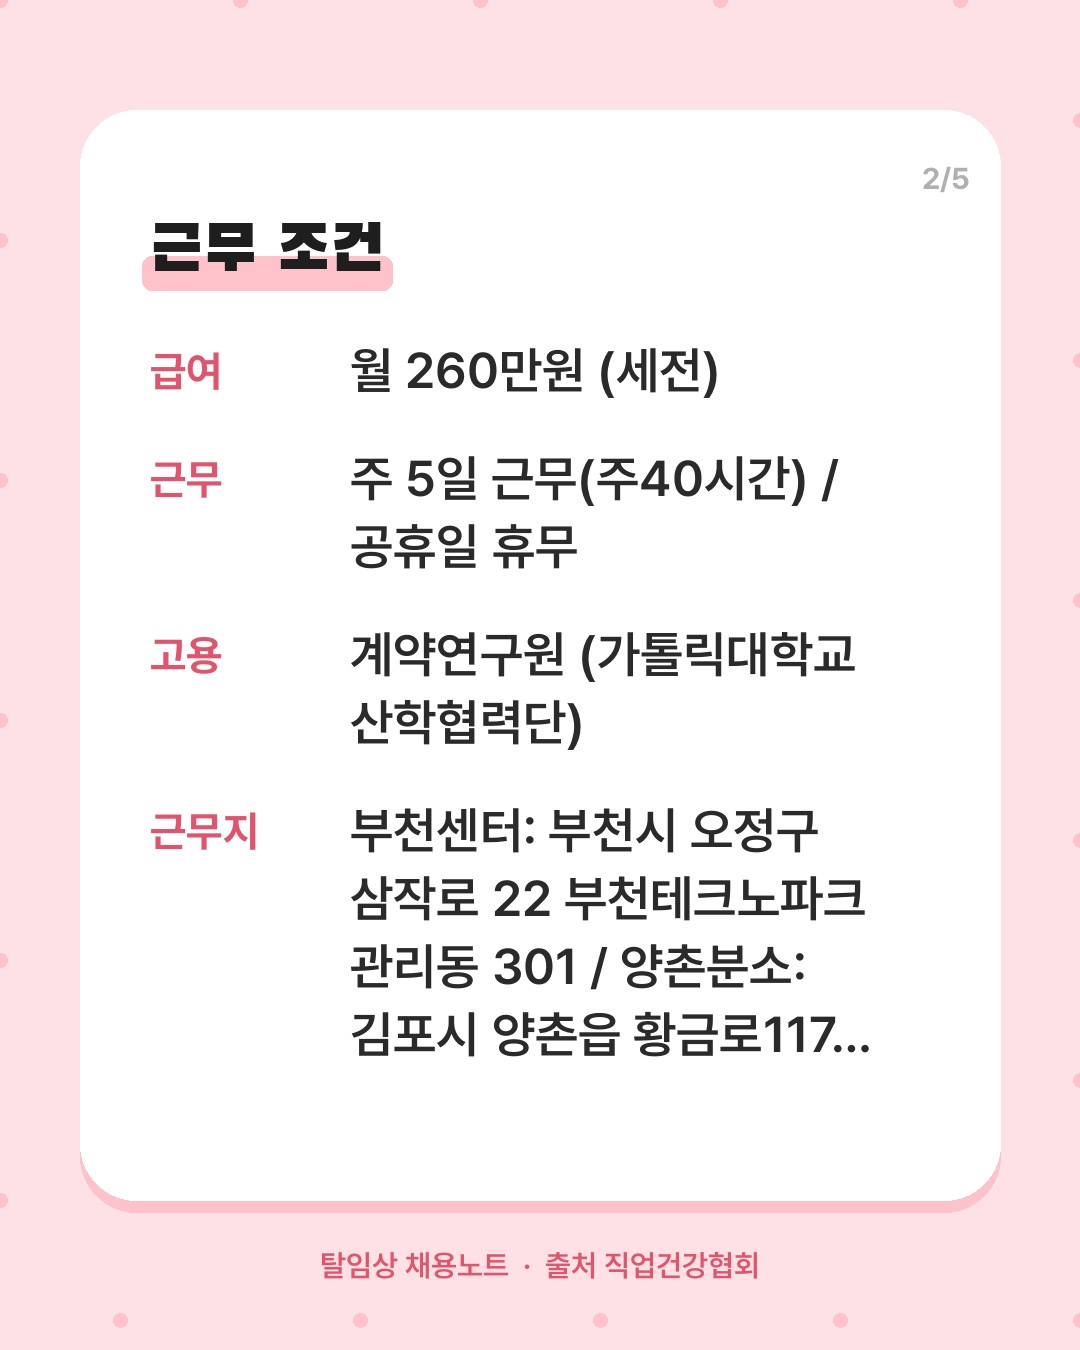
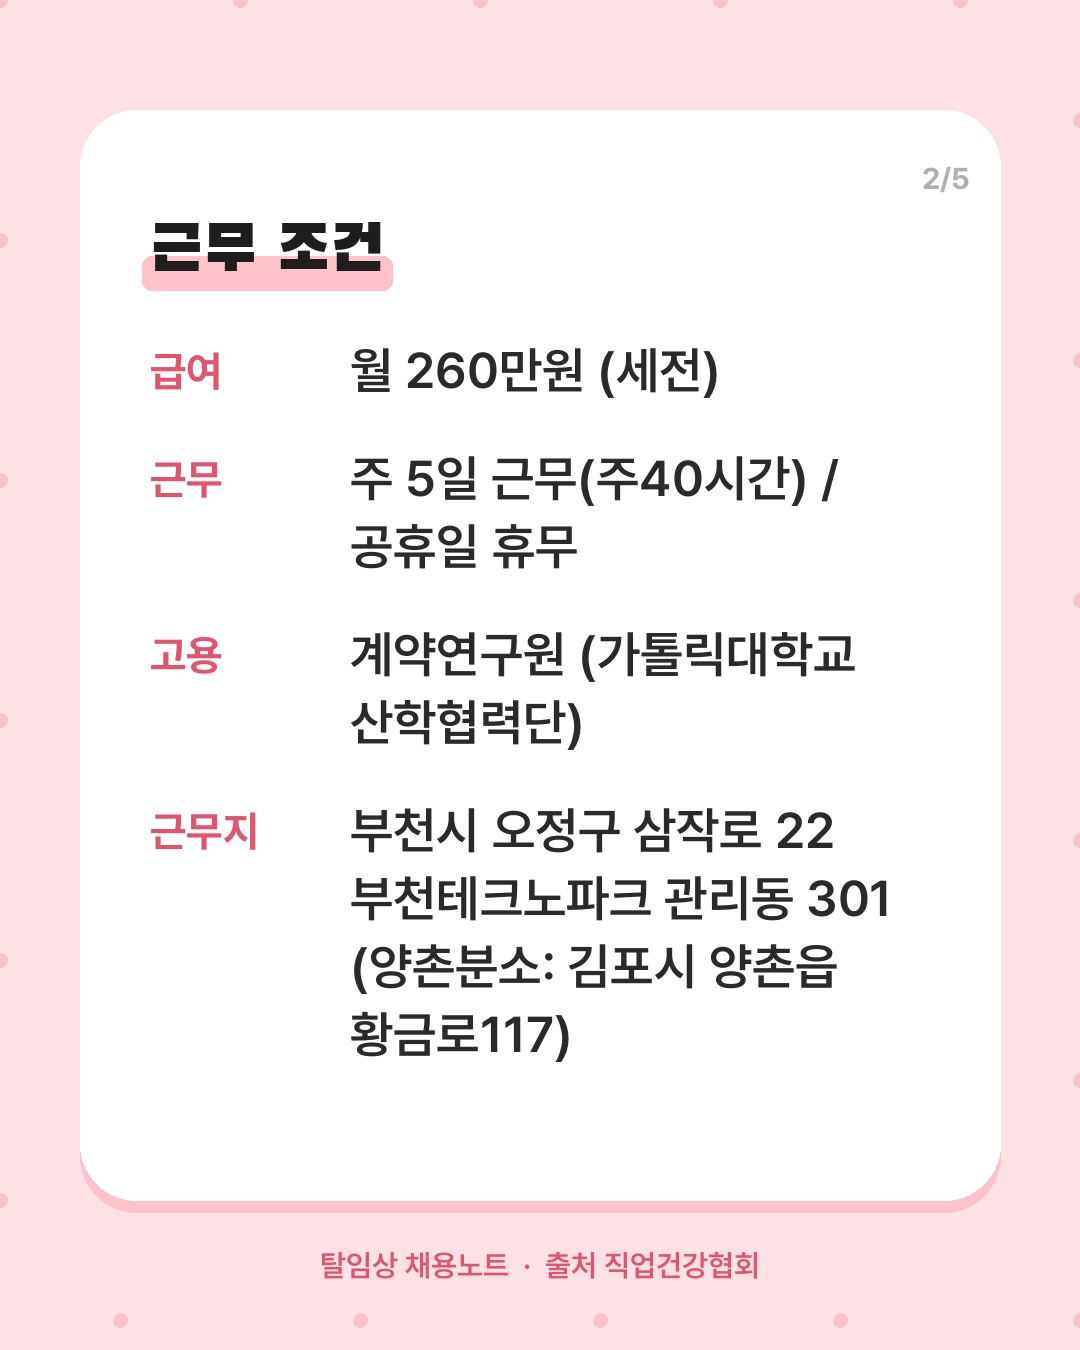
분류·콘텐츠 생성·검토 2026-11-27
Claude-Session: https://claude.ai/code/session_015ozFBvjxcWAyqLYfTbBGCZ

Changed region(s): [[0.3056, 0.5911, 0.825, 0.8089]]

diff --git a/docs/2026-11-27/index.html b/docs/2026-11-27/index.html
@@ -157,7 +157,7 @@ a{color:var(--accent)}ul.days{padding-left:1.2em}
 <div class="row" style="margin-top:10px;align-items:flex-start"><a href="thumb-04.png" download><img src="thumb-04.png" alt="썸네일 4" style="width:160px;border-radius:8px;border:1px solid var(--line)"></a>
 <span class="muted">썸네일: 이미지를 눌러 저장 후 글 맨 위에 넣으세요</span></div></div><div class="box"><div class="row"><b>글 5. 부천근로자건강센터 · 간호사</b>
 <span class="muted">카테고리: 탈임상 채용공고 &gt; 산업간호사·기업</span></div>
-<pre id="pl5" style="display:none">부천근로자건강센터 | 부천센터: 부천시 오정구 삼작로 22 부천테크노파크 관리동 301 / 양촌분소: 김포시 양촌읍 황금로117 이젠지식산업센터 메카존 243호</pre>
+<pre id="pl5" style="display:none">부천근로자건강센터 | 부천시 오정구 삼작로 22 부천테크노파크 관리동 301</pre>
 <div class="row" style="margin-top:8px"><pre id="pt5" style="flex:1;margin:0">[부천] 부천근로자건강센터 간호사 채용 (~12/10)</pre>
 <button onclick="copyText('pt5',this)">제목 복사</button></div>
 <details open><summary class="muted" style="margin:10px 0;cursor:pointer">본문 미리보기 (접기)</summary>
@@ -168,7 +168,7 @@ a{color:var(--accent)}ul.days{padding-left:1.2em}
 <tr><td style="width:30%;background:#f5f5f5"><b>부서 · 직무</b></td><td>간호사</td></tr>
 <tr><td style="width:30%;background:#f5f5f5"><b>채용 인원</b></td><td>2명 (부천센터 1명 / 양촌분소 1명)</td></tr>
 <tr><td style="width:30%;background:#f5f5f5"><b>고용 형태</b></td><td>계약연구원 (가톨릭대학교 산학협력단)</td></tr>
-<tr><td style="width:30%;background:#f5f5f5"><b>근무지</b></td><td>부천센터: 부천시 오정구 삼작로 22 부천테크노파크 관리동 301 / 양촌분소: 김포시 양촌읍 황금로117 이젠지식산업센터 메카존 243호</td></tr>
+<tr><td style="width:30%;background:#f5f5f5"><b>근무지</b></td><td>부천시 오정구 삼작로 22 부천테크노파크 관리동 301 (양촌분소: 김포시 양촌읍 황금로117)</td></tr>
 <tr><td style="width:30%;background:#f5f5f5"><b>급여</b></td><td>월 260만원 (세전)</td></tr>
 <tr><td style="width:30%;background:#f5f5f5"><b>근무 시간</b></td><td>주 5일 근무(주40시간) / 공휴일 휴무</td></tr>
 <tr><td style="width:30%;background:#f5f5f5"><b>접수 기간</b></td><td>11월 24일 ~ 12월 10일 (D-13)</td></tr>
@@ -232,7 +232,7 @@ a{color:var(--accent)}ul.days{padding-left:1.2em}
 <div class="row" style="margin-top:8px"><pre id="pt7" style="flex:1;margin:0">[서울] 서울아산병원 종양내과 대장암팀 연구간호사 채용 (상시)</pre>
 <button onclick="copyText('pt7',this)">제목 복사</button></div>
 <details open><summary class="muted" style="margin:10px 0;cursor:pointer">본문 미리보기 (접기)</summary>
-<div id="pb7" class="post"><p>간호사 면허만 있으면 지원할 수 있는 상급종합병원 종양내과 CRC 자리로, 연차별 연봉(1년차 3,210만원)이 공개돼 있습니다. 주5일 09~17시 근무이며, 개인 연구자 소속이라 4대보험이 지원되지 않는 점은 확인이 필요합니다.</p><p>&nbsp;</p>
+<div id="pb7" class="post"><p>간호사 면허만 있으면 지원할 수 있는 상급종합병원 종양내과 CRC 자리로, 연차별 연봉(1년차 3,210만원)이 공개돼 있습니다. 주5일 09~17시 근무입니다. 개인 연구자 소속이라 4대보험이 지원되지 않는 조건입니다.</p><p>&nbsp;</p>
 <h2>📌 채용 개요</h2>
 <table border="1" cellpadding="8" style="border-collapse:collapse;width:100%">
 <tr><td style="width:30%;background:#f5f5f5"><b>기관</b></td><td>서울아산병원</td></tr>
@@ -250,7 +250,7 @@ a{color:var(--accent)}ul.days{padding-left:1.2em}
 <h2>⭐ 우대 사항</h2><ul><li>임상시험 종사자 교육 이수자</li></ul><p>&nbsp;</p>
 <h2>📎 직무내용</h2><ul><li>종양내과 대장암팀 연구간호사(CRC) 임상연구 업무</li></ul><p>&nbsp;</p>
 <h2>🧭 전형 절차</h2><ol><li>서류전형 → 면접 (합격자 개별 연락)</li></ol><p>&nbsp;</p>
-<h2>💡 한줄 TIP</h2><p>CRC로 첫 이직을 준비하는 간호사에게 적합. 연차별 연봉 공개, 4대보험 미지원은 확인 필요.</p><p>&nbsp;</p>
+<h2>💡 한줄 TIP</h2><p>CRC로 첫 이직을 준비하는 간호사에게 적합. 연차별 연봉 공개, 개인 연구자 소속으로 4대보험 미지원.</p><p>&nbsp;</p>
 <h2>🔗 지원하기</h2><ul>
 <li><a href="https://www.nursevillage.com/job/job-posting/100785">기관 채용 홈페이지에서 바로 지원</a></li>
 <li>접수 방법: 이메일 접수 (제목: CRC / 지원자이름) — 이력서(경력 위주, 사진 첨부), 자기소개서</li>
@@ -520,7 +520,7 @@ a{color:var(--accent)}ul.days{padding-left:1.2em}
 🕘 근무: 주5일 09:00~17:00
 ✅ 자격: 간호사 면허 / 1년 이상 근무 가능 / 임상시험 종사자 교육 우대
 
-💡 CRC로 첫 이직을 준비하는 간호사에게 적합. 연차별 연봉 공개, 4대보험 미지원은 확인 필요.
+💡 CRC로 첫 이직을 준비하는 간호사에게 적합. 연차별 연봉 공개, 개인 연구자 소속으로 4대보험 미지원.
 
 🔗 우대 사항·전형·지원 링크는 프로필 링크(블로그)에서
 💾 저장해두고 마감 체크
